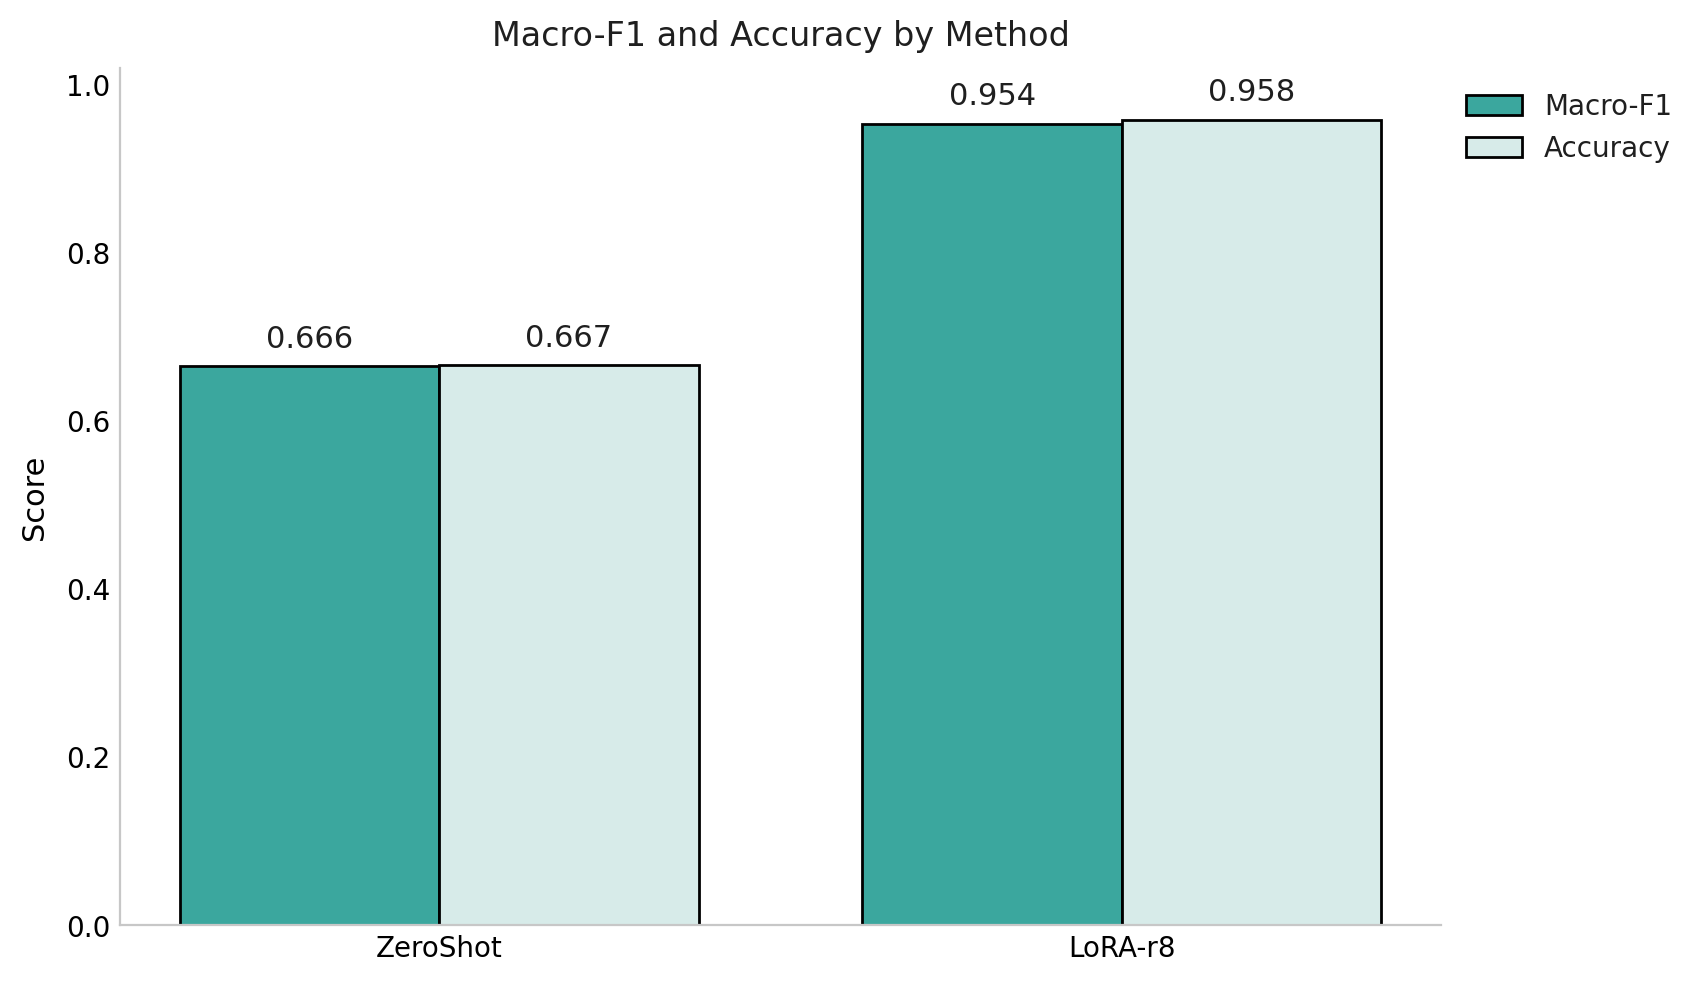
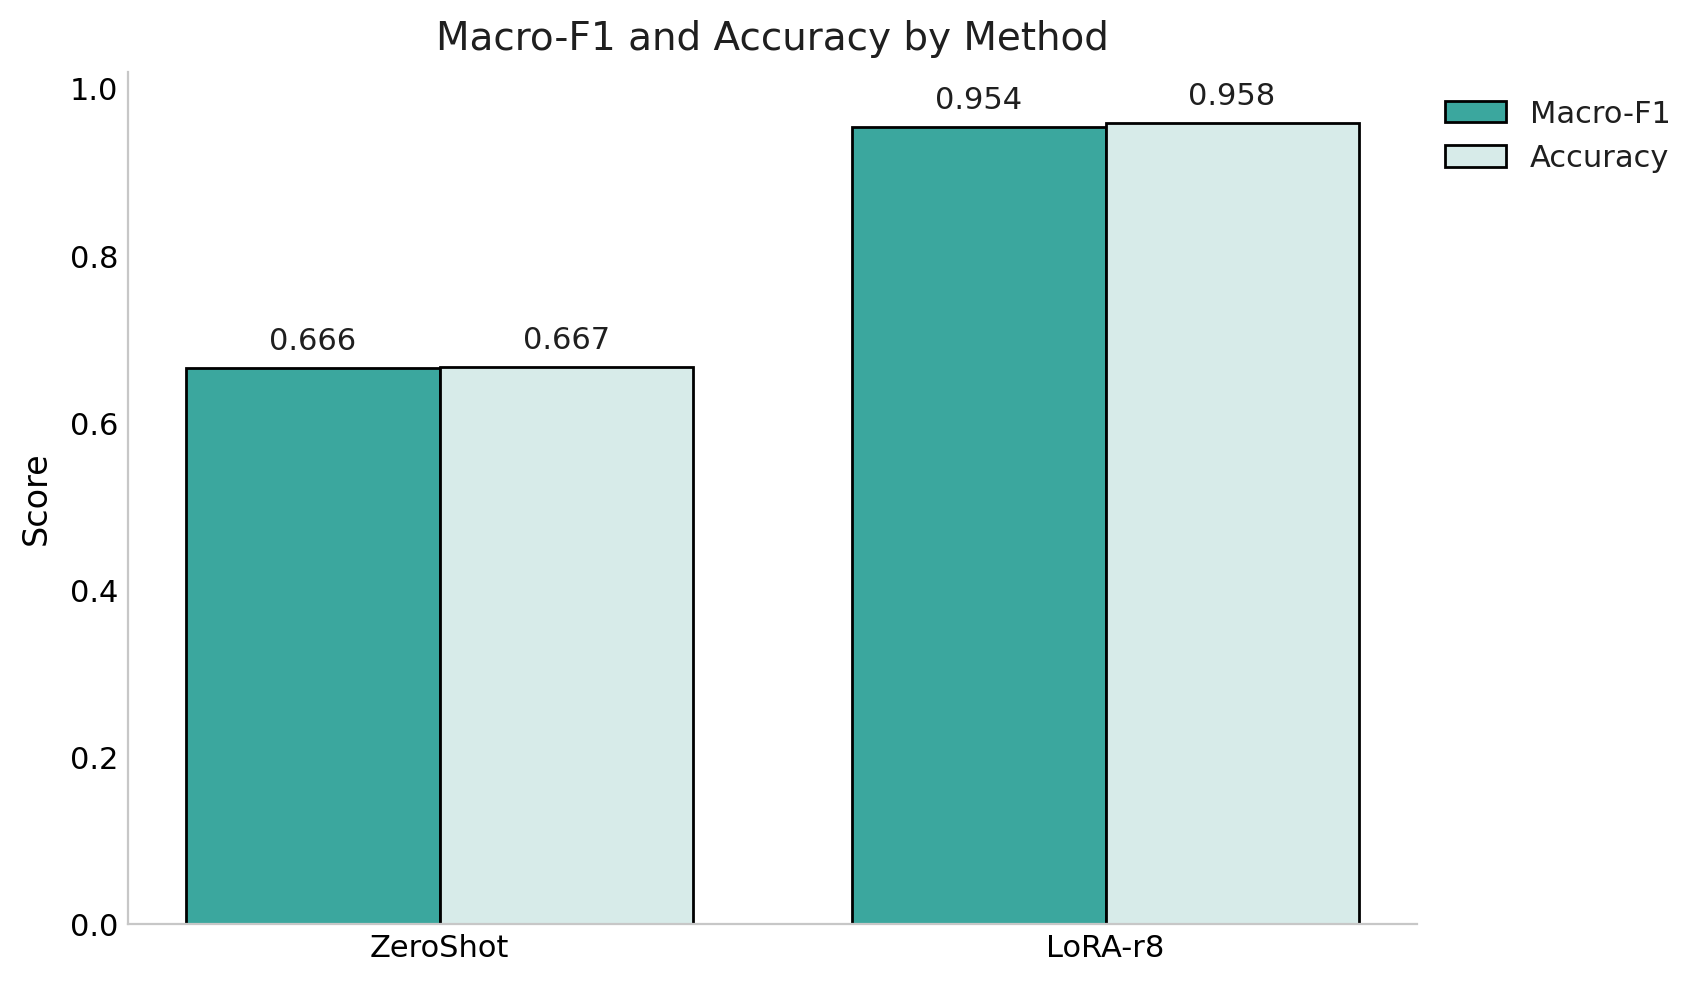
update

diff --git a/app/plot_results_v1.py b/app/plot_results_v1.py
@@ -8,30 +8,19 @@ import matplotlib as mpl
 import matplotlib.pyplot as plt
 
 from app.config import cfg
-from matplotlib.colors import LinearSegmentedColormap, to_rgb
-from sklearn.metrics import confusion_matrix
 
-# --- helper to build a single-hue colormap (white -> chosen color) ---
+from matplotlib.colors import LinearSegmentedColormap, to_rgb
+
 def _single_hue_cmap(hex_color: str, name: str = "single_hue"):
     rgb = to_rgb(hex_color)
-    return LinearSegmentedColormap.from_list(name, [(1, 1, 1), rgb], N=256)
+    return LinearSegmentedColormap.from_list(name, [(1,1,1), rgb], N=256)
 
-# ---------- palette (matches your bars) ----------
+# ---------- minimal, consistent theme ----------
 PALETTE = {
     "macro_f1": "#3BA79E",  # teal
-    "accuracy": "#D7EBE9",  # light teal
+    "accuracy": "#D7EBE9",  # lime-yellow
     "text_dark": "#1F1F1F",
-    "cm_cmap": "Greys",     # (unused when single-hue cmap below is used)
-}
-
-# ---------- unified typography ----------
-SIZES = {
-    "base": 11,     # default text
-    "title": 14,    # axes title
-    "label": 12,    # axis & colorbar labels
-    "tick": 11,     # tick labels
-    "legend": 11,   # legend
-    "annot": 11,    # annotations on bars/points/cells
+    "cm_cmap": "Greys",
 }
 
 def _apply_theme():
@@ -39,12 +28,12 @@ def _apply_theme():
         "figure.dpi": 160,
         "savefig.dpi": 160,
         "figure.constrained_layout.use": True,
-        "font.size": SIZES["base"],
-        "axes.titlesize": SIZES["title"],
-        "axes.labelsize": SIZES["label"],
-        "xtick.labelsize": SIZES["tick"],
-        "ytick.labelsize": SIZES["tick"],
-        "legend.fontsize": SIZES["legend"],
+        "font.size": 11,
+        "axes.titlesize": 12,
+        "axes.labelsize": 11,
+        "xtick.labelsize": 10,
+        "ytick.labelsize": 10,
+        "legend.fontsize": 10,
         "axes.titlepad": 8,
         "axes.labelpad": 6,
         "axes.edgecolor": "#C7C7C7",
@@ -52,8 +41,6 @@ def _apply_theme():
         "axes.facecolor": "white",
         "figure.facecolor": "white",
         "axes.grid": False,
-        # If you want a fixed font family everywhere, uncomment:
-        # "font.family": "DejaVu Sans",
     })
 
 def _polish_axes(ax):
@@ -71,6 +58,7 @@ def _read_json(p: Path):
     return json.loads(p.read_text(encoding="utf-8"))
 
 def _savefig(fig: plt.Figure, path: Path):
+    """Create parent dir, save, and print the absolute path so you can find it."""
     path.parent.mkdir(parents=True, exist_ok=True)
     fig.savefig(path, dpi=200, bbox_inches="tight", pad_inches=0.1)
     plt.close(fig)
@@ -99,7 +87,7 @@ def plot_macro_f1_by_method(results_csv: Path, out_png: Path):
     for b in bars:
         h = b.get_height()
         ax.text(b.get_x() + b.get_width()/2, h + 0.015, f"{h:.3f}",
-                ha="center", va="bottom", fontsize=SIZES["annot"])
+                ha="center", va="bottom")
 
     _polish_axes(ax)
     _savefig(fig, out_png)
@@ -114,11 +102,12 @@ def plot_confusion(conf_csv: Path, labels: list[str], out_png: Path):
 
     fig, ax = plt.subplots(figsize=(5.8, 5.2))
 
-    # Use single-hue cmap matching your teal
+    # modern colormap API (fixes deprecation)
+    # cmap = mpl.colormaps[PALETTE["cm_cmap"]]
     cmap = _single_hue_cmap(PALETTE["macro_f1"])
     im = ax.imshow(cm, cmap=cmap, vmin=0, vmax=1, aspect="equal")
 
-    # Black borders around each cell
+    # draw black edges around each cell
     for i in range(n):
         for j in range(n):
             ax.add_patch(plt.Rectangle(
@@ -126,16 +115,19 @@ def plot_confusion(conf_csv: Path, labels: list[str], out_png: Path):
                 fill=False, edgecolor="black", linewidth=0.5,
                 joinstyle="miter", zorder=3
             ))
+    # Outer frame black too
+    # for s in ax.spines.values():
+    #     s.set_visible(True)
+    #     s.set_color("black")
+    #     s.set_linewidth(1.2)
 
-    # Colorbar with unified font sizes
     cbar = fig.colorbar(im, ax=ax, fraction=0.046, pad=0.04)
-    cbar.ax.set_ylabel("Row-normalized", rotation=90, va="center",
-                       color=PALETTE["text_dark"], fontsize=SIZES["label"])
-    cbar.ax.tick_params(colors=PALETTE["text_dark"], labelsize=SIZES["tick"])
+    cbar.ax.set_ylabel("Row-normalized", rotation=90, va="center", color=PALETTE["text_dark"])
+    cbar.ax.tick_params(colors=PALETTE["text_dark"])
 
     ax.set_xticks(np.arange(n)); ax.set_xticklabels(labels, rotation=30, ha="right", color=PALETTE["text_dark"])
     ax.set_yticks(np.arange(n)); ax.set_yticklabels(labels, color=PALETTE["text_dark"])
-    ax.set_title("LoRA Confusion Matrix (row-normalized)")
+    ax.set_title("LoRA Confusion Matrix (row-normalized)", color=PALETTE["text_dark"])
 
     # Auto-contrast annotations
     for i in range(n):
@@ -144,8 +136,7 @@ def plot_confusion(conf_csv: Path, labels: list[str], out_png: Path):
             r, g, b, _ = cmap(v)
             lum = 0.2126*r + 0.7152*g + 0.0722*b
             text_color = "#FFFFFF" if lum < 0.45 else "#000000"
-            ax.text(j, i, f"{v*100:.0f}%", ha="center", va="center",
-                    fontsize=SIZES["annot"], color=text_color)
+            ax.text(j, i, f"{v*100:.0f}%", ha="center", va="center", fontsize=10, color=text_color)
 
     for s in ax.spines.values():
         s.set_visible(False)
@@ -168,23 +159,21 @@ def plot_macro_f1_and_accuracy(results_csv: Path, out_png: Path):
     width = 0.38
 
     fig, ax = plt.subplots(figsize=(8.4, 4.8))
-    b1 = ax.bar(x - width/2, y_f1, width, label="Macro-F1",
-                color=PALETTE["macro_f1"], edgecolor="black")
-    b2 = ax.bar(x + width/2, y_acc, width, label="Accuracy",
-                color=PALETTE["accuracy"], edgecolor="black")
+    b1 = ax.bar(x - width/2, y_f1, width, label="Macro-F1", color=PALETTE["macro_f1"], edgecolor="black")
+    b2 = ax.bar(x + width/2, y_acc, width, label="Accuracy", color=PALETTE["accuracy"], edgecolor="black")
 
     ax.set_xticks(x)
     ax.set_xticklabels(methods)
     ax.set_ylabel("Score")
     ax.set_title("Macro-F1 and Accuracy by Method")
     ax.set_ylim(0, max(1.02, float(np.max([y_f1.max(), y_acc.max()])) * 1.05))
-    ax.legend(loc="upper left", bbox_to_anchor=(1, 1), frameon=False, prop={"size": SIZES["legend"]})
+    ax.legend(loc="upper left", bbox_to_anchor=(1, 1), frameon=False)
 
     def _annotate(bars):
         for bar in bars:
             h = bar.get_height()
             ax.text(bar.get_x() + bar.get_width()/2, h + 0.015, f"{h:.3f}",
-                    ha="center", va="bottom", fontsize=SIZES["annot"])
+                    ha="center", va="bottom")
     _annotate(b1); _annotate(b2)
 
     _polish_axes(ax)
@@ -210,23 +199,31 @@ def plot_val_curve_if_exists(metrics_dir: Path, out_png: Path):
     fig, ax = plt.subplots(figsize=(7.2, 4.2))
     ax.plot(
         xs, curve, marker="o", linewidth=1.6, color=PALETTE["macro_f1"],
-        markeredgecolor="black", markerfacecolor=PALETTE["accuracy"]
+        markeredgecolor="black", markerfacecolor="#D7EBE9"
     )
 
-    # labels BELOW each point
+    # --- add value labels above each dot ---
     for x, y in zip(xs, curve):
-        ax.annotate(f"{y:.3f}", xy=(x, y), xytext=(0, -15),
-                    textcoords="offset points", ha="center", va="top",
-                    fontsize=SIZES["annot"])
+        ax.annotate(f"{y:.3f}",
+                xy=(x, y),
+                xytext=(0, -15),               # ↓ 10 px below the point
+                textcoords="offset points",
+                ha="center", va="top",
+                fontsize=10)
 
-    # bounds with headroom for labels below top/bottom
-    bottom = max(0.0, float(np.min(curve)) - 0.12)
+    # give room under the lowest point so labels aren't clipped
+    bottom = max(0.0, float(np.min(curve)) - 0.12)   # ~0.12 headroom
     top    = max(1.05, float(np.max(curve)) * 1.05)
     ax.set_ylim(bottom, top)
+    # ---------------------------------------
 
     ax.set_xlabel("Epoch")
     ax.set_ylabel("Val Macro-F1")
     ax.set_title(f"Validation Macro-F1 per Epoch (LoRA r={r})")
+
+    # give extra headroom so labels never get clipped
+    top = max(1.05, float(np.max(curve)) * 1.05)
+    ax.set_ylim(0, top)
     ax.set_xlim(0.5, len(curve) + 0.5)
     ax.set_xticks(xs)
 
@@ -247,6 +244,7 @@ def plot_efficiency_panel(results_csv: Path, out_png: Path):
 
     methods = df["method"].tolist()
     mb = df["trainable_params_mb"].to_numpy(dtype=float)
+    # `training_time_wall` was written in **seconds** by train_lora.py → convert to minutes
     mins = (df["training_time_wall"].to_numpy(dtype=float) / 60.0)
 
     x = np.arange(len(methods))
@@ -255,19 +253,19 @@ def plot_efficiency_panel(results_csv: Path, out_png: Path):
     fig, axes = plt.subplots(1, 2, figsize=(9.6, 4.2))
     ax0, ax1 = axes
 
-    # Trainable Params (MB)
+    # --- Trainable Params (MB) ---
     b0 = ax0.bar(x, mb, width=w, color=PALETTE["macro_f1"], edgecolor="black")
     ax0.set_xticks(x); ax0.set_xticklabels(methods)
     ax0.set_ylabel("MB")
     ax0.set_title("Trainable Parameters (MB)")
-    ax0.set_ylim(0, max(1.02, float(mb.max()) * 1.15) if mb.size else 1.0)
+    ax0.set_ylim(0, max(1.02, float(mb.max()) * 1.15))
     for bar in b0:
         h = bar.get_height()
-        ax0.text(bar.get_x() + bar.get_width()/2, h + (0.03 * max(1.0, mb.max() if mb.size else 1.0)),
-                 f"{h:.1f}", ha="center", va="bottom", fontsize=SIZES["annot"])
+        ax0.text(bar.get_x() + bar.get_width()/2, h + (0.03 * max(1.0, mb.max())),
+                 f"{h:.1f}", ha="center", va="bottom", fontsize=10)
     _polish_axes(ax0)
 
-    # Training Time (min)
+    # --- Training Time (min) ---
     b1 = ax1.bar(x, mins, width=w, color=PALETTE["accuracy"], edgecolor="black")
     ax1.set_xticks(x); ax1.set_xticklabels(methods)
     ax1.set_ylabel("Minutes")
@@ -275,12 +273,14 @@ def plot_efficiency_panel(results_csv: Path, out_png: Path):
     ax1.set_ylim(0, max(1.02, float(mins.max()) * 1.15) if mins.size and mins.max() > 0 else 1.0)
     for bar in b1:
         h = bar.get_height()
-        ax1.text(bar.get_x() + bar.get_width()/2, h + (0.03 * max(1.0, mins.max() if mins.size else 1.0)),
-                 f"{h:.1f}", ha="center", va="bottom", fontsize=SIZES["annot"])
+        ax1.text(bar.get_x() + bar.get_width()/2, h + (0.03 * max(1.0, mins.max())),
+                 f"{h:.1f}", ha="center", va="bottom", fontsize=10)
     _polish_axes(ax1)
 
     fig.tight_layout()
     _savefig(fig, out_png)
+
+from sklearn.metrics import confusion_matrix
 
 def plot_delta_confusion_from_pairs(paired_csv: Path, labels: list[str], out_png: Path):
     """LoRA − Baseline delta confusion (row-normalized) from paired_preds.csv."""
@@ -295,35 +295,46 @@ def plot_delta_confusion_from_pairs(paired_csv: Path, labels: list[str], out_png
 
     cm_base = confusion_matrix(gold, base_pred, labels=labels, normalize="true")
     cm_lora = confusion_matrix(gold, lora_pred, labels=labels, normalize="true")
-    dcm = cm_lora - cm_base  # in [-1, 1]
+    dcm = cm_lora - cm_base                               # in [−1, 1]
 
     n = len(labels)
     fig, ax = plt.subplots(figsize=(6.2, 5.4))
 
+    # symmetric diverging scale around 0
     vmax = float(np.abs(dcm).max())
-    vmax = 0.01 if vmax == 0 else vmax  # avoid zero range
+    vmax = 0.01 if vmax == 0 else vmax                   # avoid zero range
     im = ax.imshow(dcm, cmap="RdBu_r", vmin=-vmax, vmax=vmax, aspect="equal")
 
+    # colorbar in percentage points
     cbar = fig.colorbar(im, ax=ax, fraction=0.046, pad=0.04)
-    cbar.set_label("LoRA − Baseline (pp)", fontsize=SIZES["label"])  # percentage points
-    cbar.ax.tick_params(labelsize=SIZES["tick"])
+    cbar.set_label("LoRA − Baseline (pp)")               # percentage points
+    tick_vals = np.linspace(-vmax, vmax, 5)
+    cbar.set_ticks(tick_vals)
+    cbar.set_ticklabels([f"{t*100:.0f}" for t in tick_vals])
 
     ax.set_xticks(np.arange(n)); ax.set_xticklabels(labels, rotation=30, ha="right")
     ax.set_yticks(np.arange(n)); ax.set_yticklabels(labels)
     ax.set_title("Δ-Confusion (LoRA − Baseline, row-normalized)")
 
+    # annotations: signed percentage points
     for i in range(n):
         for j in range(n):
             ax.text(j, i, f"{dcm[i,j]*100:+.0f} pp",
                     ha="center", va="center",
                     color="black" if abs(dcm[i,j]) < vmax*0.55 else "white",
-                    fontsize=SIZES["annot"])
+                    fontsize=10)
+
+    # crisp black cell borders
+    for i in range(n):
+        for j in range(n):
             ax.add_patch(plt.Rectangle((j-0.5, i-0.5), 1, 1,
                                        fill=False, edgecolor="black",
                                        linewidth=1.0, zorder=3))
     ax.set_xlim(-0.5, n-0.5); ax.set_ylim(n-0.5, -0.5)
 
     _savefig(fig, out_png)
+
+
 
 # ---------- main ----------
 def main():
@@ -337,7 +348,7 @@ def main():
     # Required plots
     plot_confusion(metrics_dir / "confusion_lora.csv", cfg.labels, figs_dir / "confusion_matrix_lora.png")
 
-    # Grouped bar: Macro-F1 + Accuracy on one chart
+    # Grouped bar: Macro-F1 + Accuracy on ONE chart
     plot_macro_f1_and_accuracy(
         results_csv = metrics_dir / "results.csv",
         out_png     = figs_dir / "method_bars_macroF1_accuracy.png"
@@ -346,11 +357,13 @@ def main():
     # Optional plots
     plot_val_curve_if_exists(metrics_dir, figs_dir / "val_macro_f1_per_epoch.png")
     plot_efficiency_panel(metrics_dir / "results.csv", figs_dir / "efficiency_panel.png")
+
     plot_delta_confusion_from_pairs(
         metrics_dir / "paired_preds.csv",
         cfg.labels,
         figs_dir / "delta_confusion_lora_minus_baseline.png"
     )
+
 
     print("[plot_results] Saved figures to", figs_dir.resolve())
 
